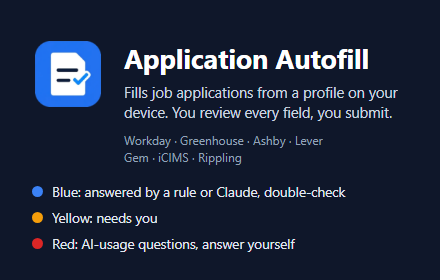
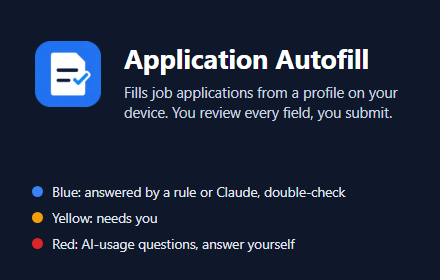
Store resubmission 1.0.1: no portal names in the manifest description or promo tile, new long description
The store rejected 1.0.0 for keyword spam (portal names repeated). The manifest description now says what the extension does without naming portals; the short description matches it; the long description names the supported systems once; the promo tile keeps the icon, name, tagline and the color legend only.

Changed region(s): [[0.2659, 0.4857, 0.7386, 0.6]]

diff --git a/store/src/promo-tile.html b/store/src/promo-tile.html
@@ -14,7 +14,6 @@
   .legend { position: absolute; left: 32px; right: 32px; bottom: 28px; display: flex; flex-direction: column; gap: 8px; font-size: 13.5px; color: #e2e8f0; }
   .legend div { display: flex; align-items: center; gap: 9px; }
   .dot { width: 11px; height: 11px; border-radius: 50%; flex: none; }
-  .foot { position: absolute; left: 124px; right: 28px; top: 132px; font-size: 12px; color: #94a3b8; line-height: 1.45; }
 </style>
 </head>
 <body>
@@ -26,6 +25,5 @@
     <div><span class="dot" style="background:#f59e0b"></span>Yellow: needs you</div>
     <div><span class="dot" style="background:#dc2626"></span>Red: AI-usage questions, answer yourself</div>
   </div>
-  <div class="foot">Workday · Greenhouse · Ashby · Lever<br>Gem · iCIMS · Rippling</div>
 </body>
 </html>

diff --git a/CLAUDE.md b/CLAUDE.md
@@ -30,7 +30,7 @@ Content scripts are split into shared modules and one adapter per portal. They a
 - `background.js`: Claude API calls through `callClaude(profile, system, user, maxTokens)`: `askAI` for unknown application questions, batched one call per page, returns `[{id, answer, confidence}]`; `draftAI` (message `DRAFT`) for draft mode, one call per page with every draftable question, the profile summary, the LinkedIn text and the job description, returns `[{id, answer}]`.
 - `options.html` / `options.js`: profile editor (stored in `chrome.storage.local` keys `profile`, `settings`, `learned`, `resumeFile`), import/export JSON.
 - `popup.html` / `popup.js`: toolbar popup (fill button, AI, learning and draft-mode toggles, the current shortcut from `chrome.commands.getAll()`). Fill sends `FILL_TAB` to background.js.
-- Store packaging (2026-11-08, manifest version 1.0.0; nothing submitted yet): `tools/build.js` (Node, no dependencies) writes `dist/application-autofill-<version>.zip` (git-ignored) with only the files the manifest and its scripts reference (manifest, background.js and its `importScripts`, the content scripts, popup and options pages with their scripts, the icons), fails on a missing file, reports a `shared/` / `adapters/` module nothing references, runs `tests/privacy-check.js --paths` on exactly those files plus `store/` (without `store/.build`) before writing, and reads the zip back (and `tar -tf`) to verify it. `tools/screenshots.ps1` (PowerShell tool) renders `store/screenshot-1-fill.png` (store/src/fill-demo.html, a Greenhouse-shaped fake page filled by the real content scripts, the Done toast kept open), `screenshot-2-options.png` / `screenshot-3-learned.png` (options.html with the stub `store/src/options-stub.js`), `promo-small-440x280.png` (store/src/promo-tile.html) and `icons/icon16/32/48.png` (store/src/icons.html, a canvas), checking every PNG's size; Edge's throwaway profiles go to `%TEMP%` because Edge writes the Windows user name into them (the privacy check caught that in `store/.build`). `store/listing.md` holds the listing text, the single-purpose statement, the permission justifications and the data-usage answers; `PRIVACY.md` (repo root) is the privacy policy (local storage only, api.anthropic.com with the user's key, Limited Use wording, how to delete). The manifest now has `icons` and `action.default_icon`; host permissions were already only the supported portals plus api.anthropic.com (the widest patterns, `*.myworkday.com` and `*.icims.com`, are needed because every tenant has its own host). `tests/privacy-check.js --paths <files / folders>` checks exactly those paths (folders recursively, whether or not git knows them).
+- Store packaging (2026-11-08; manifest version 1.0.1 after the store rejected 1.0.0 for keyword spam: the portal names are listed once, in the long description, and nowhere in the manifest description or the promo tile): `tools/build.js` (Node, no dependencies) writes `dist/application-autofill-<version>.zip` (git-ignored) with only the files the manifest and its scripts reference (manifest, background.js and its `importScripts`, the content scripts, popup and options pages with their scripts, the icons), fails on a missing file, reports a `shared/` / `adapters/` module nothing references, runs `tests/privacy-check.js --paths` on exactly those files plus `store/` (without `store/.build`) before writing, and reads the zip back (and `tar -tf`) to verify it. `tools/screenshots.ps1` (PowerShell tool) renders `store/screenshot-1-fill.png` (store/src/fill-demo.html, a Greenhouse-shaped fake page filled by the real content scripts, the Done toast kept open), `screenshot-2-options.png` / `screenshot-3-learned.png` (options.html with the stub `store/src/options-stub.js`), `promo-small-440x280.png` (store/src/promo-tile.html) and `icons/icon16/32/48.png` (store/src/icons.html, a canvas), checking every PNG's size; Edge's throwaway profiles go to `%TEMP%` because Edge writes the Windows user name into them (the privacy check caught that in `store/.build`). `store/listing.md` holds the listing text, the single-purpose statement, the permission justifications and the data-usage answers; `PRIVACY.md` (repo root) is the privacy policy (local storage only, api.anthropic.com with the user's key, Limited Use wording, how to delete). The manifest now has `icons` and `action.default_icon`; host permissions were already only the supported portals plus api.anthropic.com (the widest patterns, `*.myworkday.com` and `*.icims.com`, are needed because every tenant has its own host). `tests/privacy-check.js --paths <files / folders>` checks exactly those paths (folders recursively, whether or not git knows them).
 - Filling a tab from outside the page (`fillTab` in background.js), used by the popup and the keyboard shortcut (manifest `commands` "fill-page", suggested Alt+Shift+F): PING the tab (every frame answers, so an embedded Greenhouse form on a company site works; only frames with a matching adapter have a listener). If nothing answers, inject the `content_scripts` entry whose `matches` fit the tab URL (with `allFrames` when the entry has `all_frames`), then send FILL. The toolbar badge shows progress: "…", then the number of fields needing the user (or ✓, or ! on error).
 - `tests/`: before/after regression check in headless Edge, plus `tests/bg-request.js` (background.js request bodies, Node; run.ps1 runs it). Run by hand only, never by run.ps1 (real API calls, key from `$env:ANTHROPIC_API_KEY`, never printed or saved): `node tests\live-smoke.js` (one tiny request per Claude path: question classifier, answers, drafts, experience check, meaning mapper, preference mapper, learning classifier, YC note; prints model and HTTP status, exit 1 on an HTTP error, an error result or unparseable JSON) and `node tests\reclassify-learned.js <exported backup> [--from YYYY-MM-DD] [--to YYYY-MM-DD]` (read-only: the learned entries saved in the window, default 2026-10-26 to 2026-11-01, when the learning classifier was down, with their Options category now, whether the patterns block them, and the classifier's verdict now, plus every company scope the next start will repair; nothing is moved). Both load background.js through `tests/lib-bg.js`. `powershell -ExecutionPolicy Bypass -File tests\run.ps1 [-Before <git ref, default HEAD: the last commit>] [-Only <fixture prefix>]`. Each `tests/fixtures/<adapter>-<name>.html` is a fake portal page: a stubbed `chrome` API (profile, canned Claude answers), widget look-alikes, and a `<!--SCRIPTS-->` placeholder. The runner fills the placeholder with each tree's content scripts in manifest order, forces `detect()`, runs a fill, and diffs the page's report: stats, `[autofill]` log lines with timings masked, every field's value and outline, and whether page-navigation buttons were clicked. Fixtures for an adapter missing from the "before" ref just print their output. Output goes to `tests/.out/` (git-ignored). Run it after any change to shared code; Workday, Greenhouse and Ashby fixtures must stay identical. Run it from the PowerShell tool, not Git Bash (its `tar` breaks the export); if headless Edge dies mid-run, run the groups separately with `-Only`. Edge's own stderr no longer stops the runner (Windows PowerShell 5.1 turned it into a terminating error under `Stop`). (The Workday skills summary's "slowest" list is timing-dependent and can reorder between runs.) Fixtures hold fake data only ("Test Applicant", preferred name "Tess", "1 Test Street", Springfield, zip 10001, test@example.com, 646-555-0100); the run starts with the privacy check (`tests/privacy-check.js`, the whole tree; see Current state), which fails with exit 1 on a hit.
 

diff --git a/store/listing.md b/store/listing.md
@@ -9,30 +9,33 @@ fake-data pages in `src/` by `tools/screenshots.ps1`. The package is `dist/appli
 
 **Name**: Application Autofill
 
-**Short description** (130 characters):
+**Short description** (119 characters, the same as the manifest's):
 
-> Fills job applications on Workday, Greenhouse, Ashby, Lever, Gem, iCIMS and Rippling from a profile on your device. Never submits.
+> Fills job application forms from a profile you keep on your device. Outlines every answer for review and never submits.
 
 **Category**: Productivity (Workflow & Planning). **Language**: English.
 
 **Long description**:
 
-> Application Autofill fills job application forms from a profile you keep in the extension's Options page: contact details, work experience, education, links, your resume, and your fixed answers to the questions every application asks (work authorization, sponsorship, relocation, clearance, how you heard about the job, and more). Start dates, pay and other questions that are yours alone are always left for you.
+> Application Autofill fills job application forms from a profile you keep in the extension's Options page: contact details, work experience, education, links, your resume, and your fixed answers to the questions most applications ask (work authorization, sponsorship, relocation, clearance, how you heard about the job, and more). Start dates, pay and other questions that are yours alone are always left for you.
 >
-> It works on Workday, Greenhouse, Ashby, Lever, Gem, iCIMS and Rippling, including application forms embedded on a company's own careers site. On YC Work at a Startup it drafts the note to the founder for you to rewrite.
+> It supports the most common applicant tracking systems: Workday, Greenhouse, Ashby, Lever, Gem, iCIMS and Rippling, including forms embedded on a company's own careers site.
 >
 > How it decides
-> 1. Your profile and a long list of rules answer first. A rule either answers from your Options or leaves the field for you and says why in the console. It never hands a question on silently.
-> 2. Answers you give yourself to a skipped question are saved, wait for your review in Options, and are reused for that question later. Questions that name a company are reused only for that company.
-> 3. Optional: with your own Anthropic API key, questions no rule answers are sent to Claude, and open-ended questions ("Why this company?") get a short first-person draft written from your own materials and the job description, outlined for you to edit.
 >
-> Every field it touches is outlined so you can review it: blue means answered by a rule or Claude, double-check it; yellow means it needs you; red marks a question about using AI on this application, which you answer yourself. A Done summary tells you how many fields need you. The extension never clicks Submit, Next, Continue, Save or Apply.
+> 1. Your profile and a set of rules answer first. A rule either answers from your Options or leaves the field for you and says why.
 >
-> Some questions are never answered by AI, whatever the settings: legal attestations and signatures, EEO and demographic questions (only your Options answers fill them), compensation, start dates and availability, notice periods, relationships and conflicts of interest, accommodation requests, and AI-usage disclosures. Forms that forbid AI-written answers get no drafts. Experience questions are answered Yes only when Claude cites a quote that really is in your resume or notes.
+> 2. Answers you give yourself to a skipped question are saved, wait for your review in Options, and are reused later. Questions that name a company are reused only for that company.
 >
-> Privacy: your profile, key, resume and learned answers stay in the browser's local storage on your device. The only data that leaves it goes to the Anthropic API, with your key, when you turn Claude on. No analytics, no telemetry, no server of ours.
+> 3. Optional: with your own Anthropic API key, questions no rule answers are sent to Claude, and open-ended questions ("Why this company?") get a short first-person draft from your own materials, outlined for you to edit.
 >
-> Not affiliated with Workday, Greenhouse, Ashby, Lever, Gem, iCIMS, Rippling, Y Combinator or Anthropic. Portals change their markup, so always review before you submit.
+> Every field it touches is outlined for review: blue means double-check it, yellow means it needs you, and red marks a question about using AI on the application, which you answer yourself. The extension never clicks Submit, Next or Save.
+>
+> Some questions are never answered by AI: legal attestations, EEO and demographic questions (only your Options answers fill them), compensation, start dates, relationships and conflicts of interest, accommodation requests, and AI-usage disclosures.
+>
+> Privacy: your profile, key, resume and learned answers stay in your browser's local storage. The only data that leaves your device goes to the Anthropic API, with your key, when you turn Claude on. No analytics, no tracking, no server of ours.
+>
+> Not affiliated with any of the portals above or with Anthropic. Always review before you submit.
 
 **Website / support URL**: https://github.com/nusyislam/application-autofill (issues: https://github.com/nusyislam/application-autofill/issues)
 
